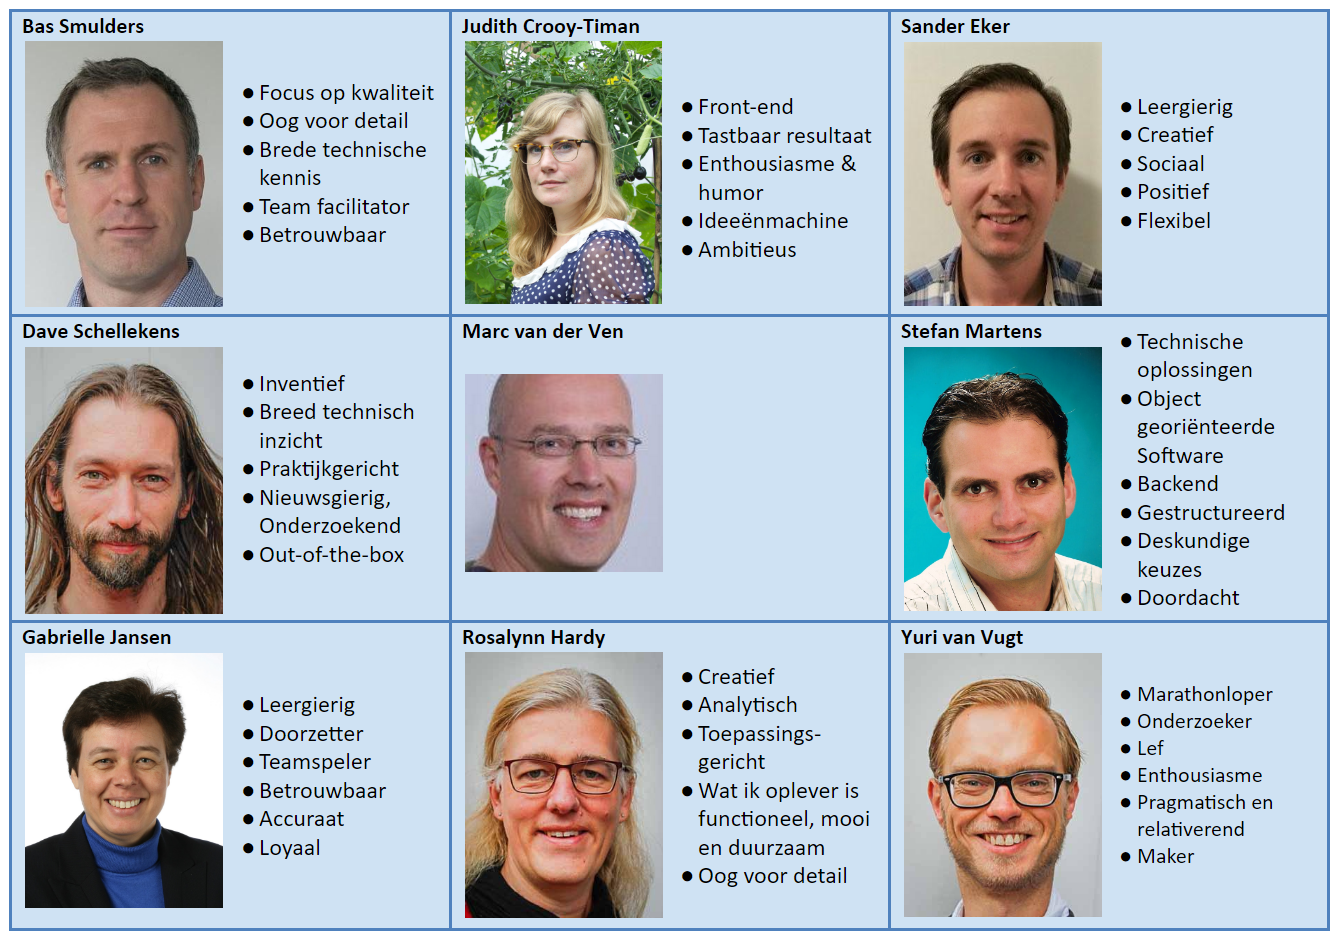
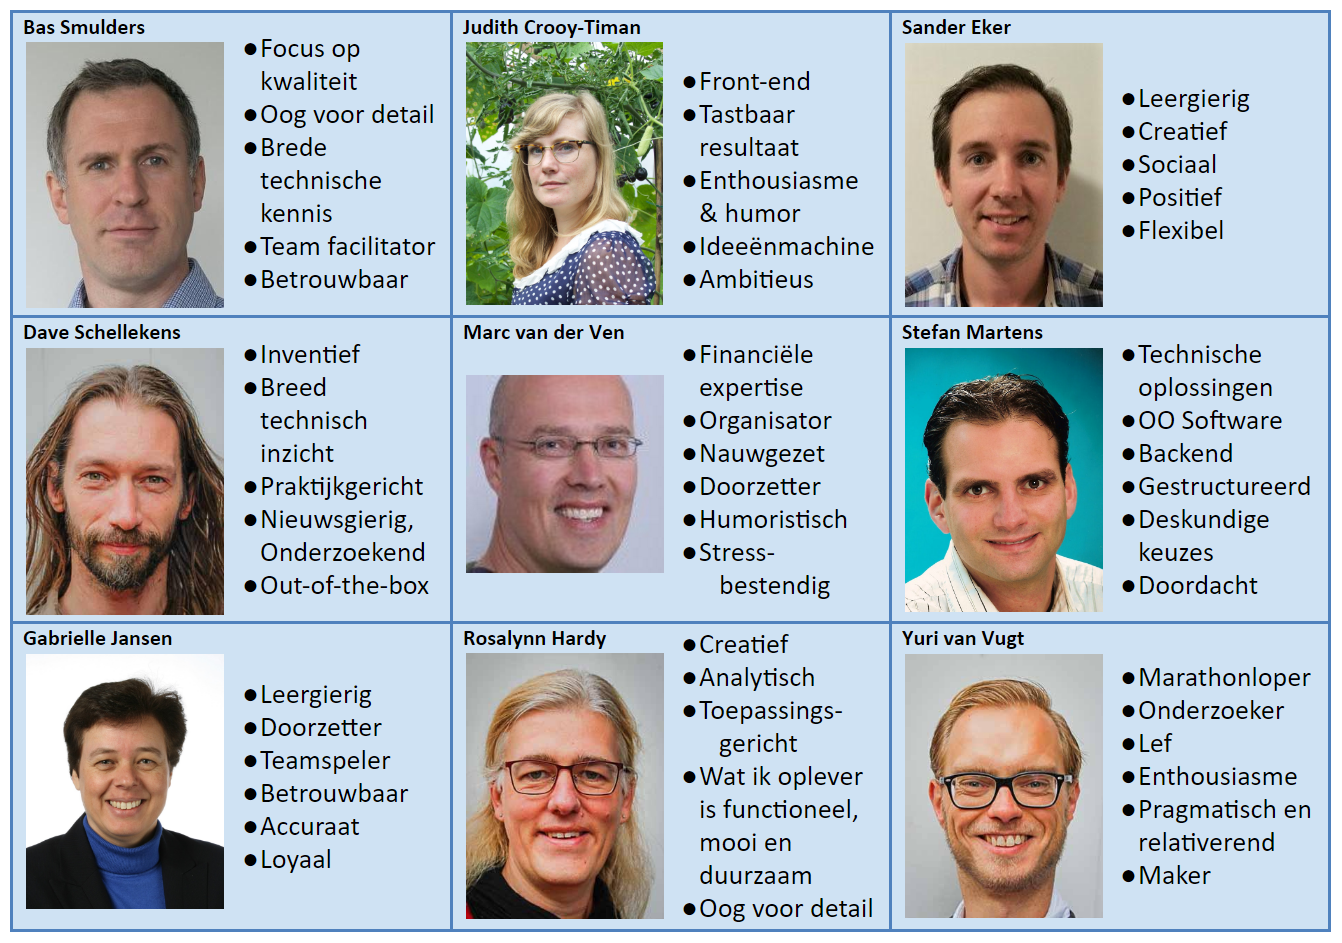
Updated flyer: bigger fonts+key words Marc, renamed 'praktijkopdracht' to 'bedrijfsopdracht'

diff --git a/index.html b/index.html
@@ -38,7 +38,7 @@
         <li data-menuanchor="Voortraject"><a href="#section1">Het Voortraject</a></li>
         <li data-menuanchor="OCA"><a href="#section2">OCA</a></li>
         <li data-menuanchor="Zomerproject"><a href="#section3">Zomerproject</a></li>
-        <li data-menuanchor="Praktijkopdracht"><a href="#section4">Praktijkopdracht</a></li>
+        <li data-menuanchor="Bedrijfsopdracht"><a href="#section4">Bedrijfsopdracht</a></li>
         <li data-menuanchor="Vragen"><a href="#section5">Vragen</a></li>
         <li data-menuanchor="Smoelenboek"><a href="#section6">De Javanen</a></li>
     </ul>
@@ -193,11 +193,11 @@
 		<!-- start of section 4 -->
         <div class="section" id="section4">
             <div class="slide">
-                <h1>Praktijkopdracht</h1>
+                <h1>Bedrijfsopdracht</h1>
                 <p>Kennismaken en ervaring opdoen met</p>
                 <p>actuele tools en technieken</p>
                 </br>
-                <img src="imgs/theorie-praktijk-22728511.jpg" alt="Praktijk">
+                <img src="imgs/theorie-praktijk-22728511.jpg" alt="Bedrijfsopdracht">
             </div>
 
             <div class="slide">
@@ -226,8 +226,8 @@
                 <h2>Angular2 - Bootstrap <- REST -> Spring - JPA</h2>
             </div>
             <div class="slide">
-                <h1>Klassediagram</h1>
-                <img class="foto" src="imgs/UML_Liebregts-2016-10-20.png" alt="Klassediagram">
+                <h1>Klassendiagram</h1>
+                <img class="foto" src="imgs/UML_Liebregts-2016-10-20.png" alt="Klassendiagram">
             </div>
 
             <div class="slide">
